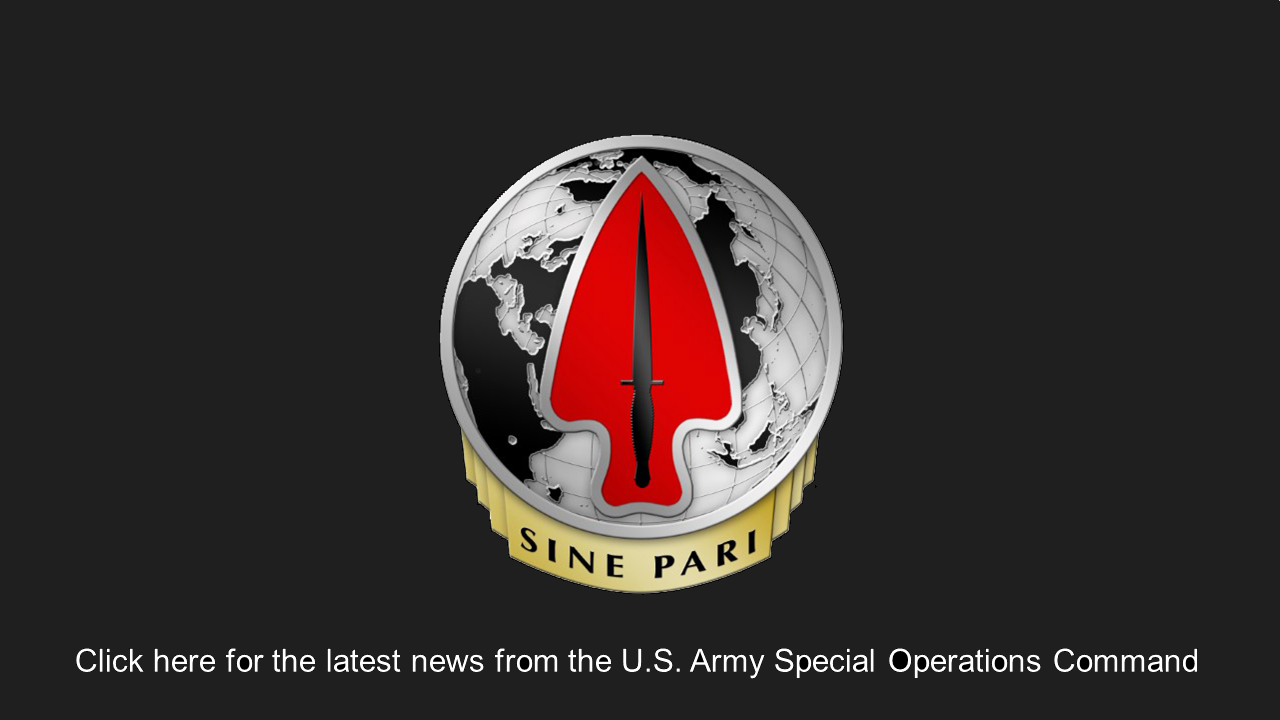
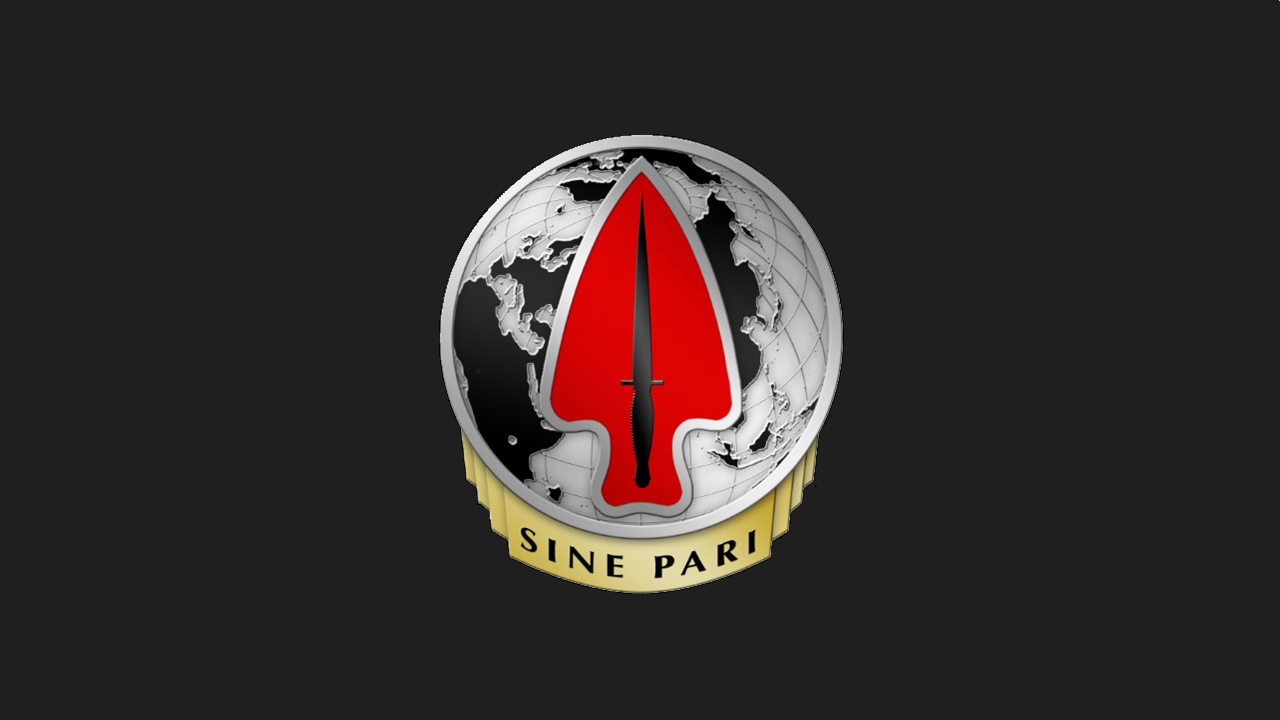
change

Changed region(s): [[0.0625, 0.8861, 0.9375, 0.9472]]

diff --git a/index.html b/index.html
@@ -56,6 +56,7 @@
                 </div>
                 <div class="column2">
                     <a href="https://www.army.mil/usasoc" target="_blank"><img src="images/UNS-graphic.png" alt="USA-SOC-News-Service" class="center"></a>
+                    <a>Click here for the latest news from the U.S. Army Special Operations Command</a>
                 </div>
             </div>
         </section>

diff --git a/styles.css b/styles.css
@@ -152,6 +152,12 @@ clear: both;
     margin-right: auto;
     width: 50%;
 }
+#News-Service .column2{
+    text-align: center;
+}
+#News-Service .column2:hover{
+    color: #a80000;
+}
 
 /* Footer */
 
